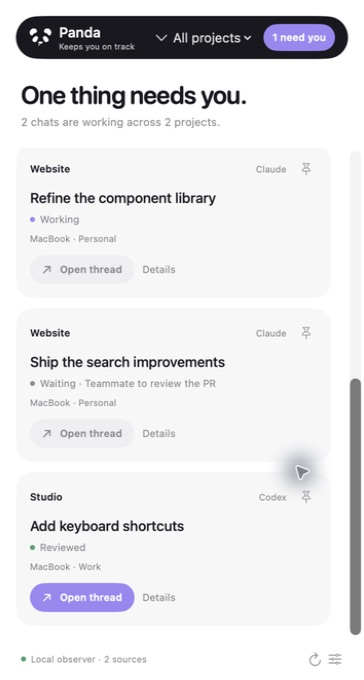
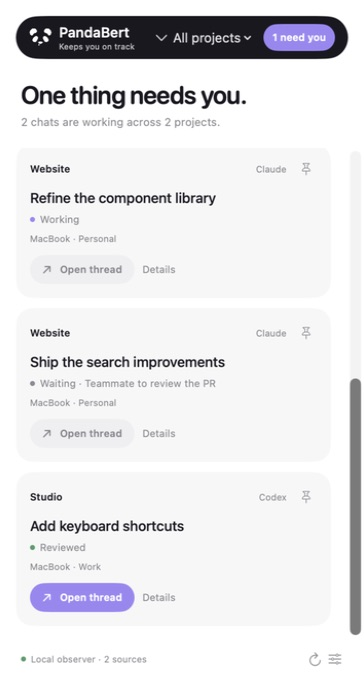
Rename app to PandaBert and remove fixed height limit

Changed region(s): [[0.7555, 0.6485, 0.8764, 0.7412], [0.272, 0.0309, 0.3626, 0.0618]]

diff --git a/Sources/Panda/PanelView.swift b/Sources/Panda/PanelView.swift
@@ -22,7 +22,7 @@ struct PanelView: View {
             HStack(spacing: 7) {
                 PandaMark()
                 VStack(alignment: .leading, spacing: 1) {
-                    Text("Panda").font(.system(size: 14, weight: .semibold))
+                    Text("PandaBert").font(.system(size: 14, weight: .semibold))
                     Text("Keeps you on track").font(.system(size: 8)).foregroundStyle(.white.opacity(0.72))
                 }.fixedSize(horizontal: true, vertical: false)
                 Spacer(minLength: 2)
@@ -59,7 +59,7 @@ struct PanelView: View {
                         VStack(alignment: .leading, spacing: 8) {
                             Image(systemName: "sparkle").foregroundStyle(lavender).font(.system(size: 22))
                             Text(store.sessions.isEmpty ? "Your activity will appear here." : "Nothing needs your attention here.").font(.system(size: 13, weight: .medium))
-                            Text(store.sessions.isEmpty ? "Add your profile folders in Connections. Panda observes Claude Code and Codex logs on this Mac." : "Keep this panel nearby. Pin any task you want to keep in sight.").font(.system(size: 11)).foregroundStyle(.secondary)
+                            Text(store.sessions.isEmpty ? "Add your profile folders in Connections. PandaBert observes Claude Code and Codex logs on this Mac." : "Keep this panel nearby. Pin any task you want to keep in sight.").font(.system(size: 11)).foregroundStyle(.secondary)
                         }.padding(18).frame(maxWidth: .infinity, alignment: .leading).background(neutralSurface, in: RoundedRectangle(cornerRadius: 17))
                     }
                     Button { expanded.toggle() } label: {
@@ -174,7 +174,7 @@ struct DetailView: View {
                     Button("Reveal transcript") { NSWorkspace.shared.activateFileViewerSelecting([URL(fileURLWithPath: s.sourcePath)]) }
                 }
             }
-            Text("Reply in the original Claude or Codex session. A finished turn is not a completed project; Panda does not invent a progress percentage.").font(.system(size: 10)).foregroundStyle(.secondary)
+            Text("Reply in the original Claude or Codex session. A finished turn is not a completed project; PandaBert does not invent a progress percentage.").font(.system(size: 10)).foregroundStyle(.secondary)
         }.padding(22).frame(width: 390).onAppear { waiting = store.preferences.waits[s.id] ?? ""; alias = store.preferences.projectName(s) }
     }
 }
@@ -200,12 +200,12 @@ struct SettingsView: View {
                         }
                     }
                     Toggle("Keep the panel above other windows", isOn: $store.preferences.alwaysOnTop).onChange(of: store.preferences.alwaysOnTop) { _ in store.save() }
-                    Toggle("Open Panda when I log in", isOn: Binding(get: { startsAtLogin }, set: { enabled in
+                    Toggle("Open PandaBert when I log in", isOn: Binding(get: { startsAtLogin }, set: { enabled in
                         do {
                             if enabled { try SMAppService.mainApp.register() } else { try SMAppService.mainApp.unregister() }
                             startsAtLogin = SMAppService.mainApp.status == .enabled
-                            settingsMessage = SMAppService.mainApp.status == .requiresApproval ? "Allow Panda in System Settings → Login Items." : ""
-                        } catch { settingsMessage = "Login setup unavailable. Move Panda to Applications and try again." }
+                            settingsMessage = SMAppService.mainApp.status == .requiresApproval ? "Allow PandaBert in System Settings → Login Items." : ""
+                        } catch { settingsMessage = "Login setup unavailable. Move PandaBert to Applications and try again." }
                     }))
                     Toggle("Show finished turns for review", isOn: $store.preferences.showFinished).onChange(of: store.preferences.showFinished) { _ in store.save() }
                     Toggle("Check linked pull requests using GitHub CLI", isOn: $store.preferences.githubEnabled).onChange(of: store.preferences.githubEnabled) { _ in store.save(); store.refresh(force: true) }
@@ -226,7 +226,7 @@ struct SettingsView: View {
                         if !store.preferences.profiles.contains(where: { $0.id == p.id }) { store.preferences.profiles.append(p) }
                         store.save(); profileLabel = ""; profileRoot = ""; store.refresh(force: true)
                     }.disabled(profileLabel.isEmpty || !(profileRoot.hasPrefix("/") || profileRoot.hasPrefix("~/")))
-                    Text("Choose the folder containing sessions (Codex) or projects (Claude). Profiles are labelled by you; Panda never guesses which account owns a folder.").font(.caption).foregroundStyle(.secondary)
+                    Text("Choose the folder containing sessions (Codex) or projects (Claude). Profiles are labelled by you; PandaBert never guesses which account owns a folder.").font(.caption).foregroundStyle(.secondary)
                     Divider()
                     Text("Other machines").font(.headline)
                     ForEach(store.preferences.remotes) { remote in
@@ -241,7 +241,7 @@ struct SettingsView: View {
                     Divider()
                     Text("Observed coverage").font(.headline)
                     Button("Export diagnostics (no task text)") {
-                        let panel = NSSavePanel(); panel.nameFieldStringValue = "panda-diagnostics.json"
+                        let panel = NSSavePanel(); panel.nameFieldStringValue = "pandabert-diagnostics.json"
                         guard panel.runModal() == .OK, let url = panel.url else { return }
                         let counts = Dictionary(grouping: store.sessions, by: { $0.displayActivity().rawValue }).mapValues(\.count)
                         let report: [String: Any] = ["version": pandaVersion, "generatedAt": ISO8601DateFormatter().string(from: Date()), "sessionCount": store.sessions.count, "projectCount": Set(store.sessions.map(\.projectKey)).count, "stateCounts": counts, "profileCount": store.preferences.profiles.count, "remoteCount": store.preferences.remotes.count, "availableSources": store.coverage.filter(\.available).count, "issueCount": store.issues.count]

diff --git a/Sources/Panda/main.swift b/Sources/Panda/main.swift
@@ -13,10 +13,10 @@ final class AppDelegate: NSObject, NSApplicationDelegate, NSWindowDelegate {
     func applicationDidFinishLaunching(_ notification: Notification) {
         store = PandaStore()
         panel = FloatingPanel(contentRect: NSRect(x: 0, y: 0, width: 364, height: 680), styleMask: [.borderless, .nonactivatingPanel, .resizable], backing: .buffered, defer: false)
-        panel.title = "Panda"; panel.isOpaque = false; panel.backgroundColor = .clear; panel.hasShadow = true
+        panel.title = "PandaBert"; panel.isOpaque = false; panel.backgroundColor = .clear; panel.hasShadow = true
         panel.isMovableByWindowBackground = true; panel.hidesOnDeactivate = false; panel.isReleasedWhenClosed = false
         panel.collectionBehavior = [.canJoinAllSpaces, .fullScreenAuxiliary]
-        panel.minSize = NSSize(width: 364, height: 420); panel.maxSize = NSSize(width: 460, height: 1000)
+        panel.minSize = NSSize(width: 364, height: 420); panel.maxSize = NSSize(width: 460, height: CGFloat.greatestFiniteMagnitude)
         panel.level = store.preferences.alwaysOnTop ? .floating : .normal
         panel.contentView = NSHostingView(rootView: PanelView(store: store).preferredColorScheme(.light))
         panel.delegate = self
@@ -27,9 +27,9 @@ final class AppDelegate: NSObject, NSApplicationDelegate, NSWindowDelegate {
         store.onTopChanged = { [weak self] on in self?.panel.level = on ? .floating : .normal }
         statusItem = NSStatusBar.system.statusItem(withLength: NSStatusItem.variableLength)
         statusItem.button?.image = PandaBrand.menuBarImage
-        let menu = NSMenu(); menu.addItem(withTitle: "Show Panda", action: #selector(showPanel), keyEquivalent: "")
+        let menu = NSMenu(); menu.addItem(withTitle: "Show PandaBert", action: #selector(showPanel), keyEquivalent: "")
         menu.addItem(withTitle: "Hide panel", action: #selector(hidePanel), keyEquivalent: "")
-        menu.addItem(.separator()); menu.addItem(withTitle: "Quit Panda", action: #selector(quit), keyEquivalent: "q")
+        menu.addItem(.separator()); menu.addItem(withTitle: "Quit PandaBert", action: #selector(quit), keyEquivalent: "q")
         for item in menu.items { item.target = self }; statusItem.menu = menu
         panel.orderFrontRegardless()
     }

diff --git a/Sources/PandaCore/Models.swift b/Sources/PandaCore/Models.swift
@@ -1,7 +1,7 @@
 import Foundation
 import CryptoKit
 
-public let pandaVersion = "0.2.4"
+public let pandaVersion = "0.3.0"
 public let pandaProtocolVersion = 1
 
 public enum Provider: String, Codable, CaseIterable { case claude, codex
@@ -214,9 +214,9 @@ public enum PreferencesFile {
             let absent = lstat(path.path, &info) == -1 && errno == ENOENT
             let failure = error as NSError
             if absent && failure.domain == NSCocoaErrorDomain && failure.code == NSFileReadNoSuchFileError { return nil }
-            throw PandaError.message("Saved preferences could not be read. Observation is stopped; repair the file and restart Panda.")
+            throw PandaError.message("Saved preferences could not be read. Observation is stopped; repair the file and restart PandaBert.")
         }
         do { return try JSONDecoder().decode(Preferences.self, from: data) }
-        catch { throw PandaError.message("Saved preferences are invalid. Observation is stopped; repair the file and restart Panda.") }
+        catch { throw PandaError.message("Saved preferences are invalid. Observation is stopped; repair the file and restart PandaBert.") }
     }
 }

diff --git a/Sources/PandaAgent/main.swift b/Sources/PandaAgent/main.swift
@@ -11,7 +11,7 @@ do {
         watch      Emit a JSON snapshot every five seconds until interrupted.
         Reads saved profile roots; defaults to ~/.claude and ~/.codex only when preferences are absent.
         Unreadable or invalid preferences stop collection with an error and no snapshot.
-        PANDA_HOME overrides Panda's own state folder (PULSE_HOME remains supported). No provider settings are changed.
+        PANDA_HOME overrides PandaBert's own state folder (PULSE_HOME remains supported). No provider settings are changed.
         """)
     } else if args == ["--version"] { print(pandaVersion) }
     else if args == ["snapshot"] || args == ["watch"] {

diff --git a/Sources/Panda/PandaBrand.swift b/Sources/Panda/PandaBrand.swift
@@ -10,7 +10,7 @@ enum PandaBrand {
         let resources = packaged.flatMap { Bundle(url: $0) } ?? Bundle.module
         let image = NSImage(contentsOf: resources.url(forResource: "PandaMark", withExtension: "png")!)!
         image.isTemplate = true
-        image.accessibilityDescription = "Panda"
+        image.accessibilityDescription = "PandaBert"
         return image
     }()
     static var menuBarImage: NSImage {

diff --git a/README.md b/README.md
@@ -1,26 +1,26 @@
-<p align="center"><img src="docs/brand/panda-app-icon.png" alt="Panda logo" width="96"></p>
+<p align="center"><img src="docs/brand/panda-app-icon.png" alt="PandaBert logo" width="96"></p>
 
-# Panda
+# PandaBert
 
 **Keeps you on track**
 
-Panda is a small native macOS panel for people working across Claude Code and Codex conversations. It gathers observed activity into one place, groups tasks by repository, and brings questions and finished turns to your attention. Keep it beside your work, pin what matters, and jump back into a supported conversation when it is time to respond.
+PandaBert is a small native macOS panel for people working across Claude Code and Codex conversations. It gathers observed activity into one place, groups tasks by repository, and brings questions and finished turns to your attention. Keep it beside your work, pin what matters, and jump back into a supported conversation when it is time to respond.
 
-Previously called Pulse. Existing settings and pins carry over.
+Previously called Panda and Pulse. Existing settings and pins carry over.
 
-**Current version: 0.2.4 · Public preview · Apple Silicon · macOS 13+**
+**Current version: 0.3.0 · Public preview · Apple Silicon · macOS 13+**
 
 <p align="center">
-  <img src="docs/screenshots/attention.jpg" alt="Panda attention panel with a pinned working task and a task that needs an answer" width="364">
+  <img src="docs/screenshots/attention.jpg" alt="PandaBert attention panel with a pinned working task and a task that needs an answer" width="364">
 </p>
 
 *Real app interface with fictional sample tasks. Screenshots illustrate the UI; they are not evidence of live account or remote-machine connections.*
 
-## Why Panda exists
+## Why PandaBert exists
 
 When several agents are working at once, checking on them becomes a task of its own. One chat is still running. Another has a question. A third has finished and needs review. A fourth is waiting for someone else to approve a pull request. Those conversations may be spread across projects, profiles and computers.
 
-Panda gives that scattered work a small, persistent home. Its purpose is to reduce repeated checking and make the next thing that needs your attention visible. Routine status comes from observed session activity, so there is no separate task board to keep up to date. Pins and waiting notes add your own priorities when needed.
+PandaBert gives that scattered work a small, persistent home. Its purpose is to reduce repeated checking and make the next thing that needs your attention visible. Routine status comes from observed session activity, so there is no separate task board to keep up to date. Pins and waiting notes add your own priorities when needed.
 
 ## What you can do
 
@@ -31,7 +31,7 @@ Panda gives that scattered work a small, persistent home. Its purpose is to redu
 - **Group by project.** Repository identities bring related conversations together. Filter by project and give it a friendlier display name.
 - **Return to the conversation.** Open supported local Codex tasks and mapped Claude desktop sessions. Unavailable Claude links are disabled.
 - **Understand a wait.** Read the latest excerpt, add a person or dependency note, and optionally check linked GitHub pull requests using your existing CLI login.
-- **Keep the panel nearby.** Move or resize it, keep it above other windows, and reopen it from the macOS menu bar.
+- **Keep the panel nearby.** Move or resize it vertically to fit your screen, keep it above other windows, and reopen it from the macOS menu bar. PandaBert has no fixed maximum height and remembers your window size.
 
 ### A quiet visual language
 
@@ -60,33 +60,33 @@ Labels accompany the dots. Cards stay neutral, and lavender controls use white t
 ### The newest notification
 
 <p align="center">
-  <img src="docs/screenshots/notification-glow.jpg" alt="Panda showing a soft lavender halo around the newest task needing attention, with a faint outline and neutral card surface" width="364">
+  <img src="docs/screenshots/notification-glow.jpg" alt="PandaBert showing a soft lavender halo around the newest task needing attention, with a faint outline and neutral card surface" width="364">
 </p>
 
-The newest attention item glows softly for 30 seconds, with an eight-second breathing cycle and a gentle fade. This still image captures the glow in Panda 0.2.4; the pin above it keeps its usual subtle outline.
+The newest attention item glows softly for 30 seconds, with an eight-second breathing cycle and a gentle fade. This still image captures the glow in PandaBert 0.3.0; the pin above it keeps its usual subtle outline.
 
 All screenshots use sample data. [Screenshot notes](docs/screenshots/README.md).
 
 ## How it works
 
-Panda reads accessible Claude Code and Codex session logs and converts recent events into task status. Repository information provides project grouping. Preferences, pins and a small cache stay in Panda's own local data folder.
+PandaBert reads accessible Claude Code and Codex session logs and converts recent events into task status. Repository information provides project grouping. Preferences, pins and a small cache stay in PandaBert's own local data folder.
 
-Additional profile folders can be labelled in Connections. A collector can also return snapshots from another Mac over an existing trusted SSH connection. Accounts remain signed in on their original machines; Panda does not require their passwords.
+Additional profile folders can be labelled in Connections. A collector can also return snapshots from another Mac over an existing trusted SSH connection. Accounts remain signed in on their original machines; PandaBert does not require their passwords.
 
-**This preview is an activity observer.** It does not start, stop or approve agent work. A finished turn is not a completed project, and Panda does not calculate a project completion percentage. If recent activity stops providing reliable evidence, it shows uncertainty.
+**This preview is an activity observer.** It does not start, stop or approve agent work. A finished turn is not a completed project, and PandaBert does not calculate a project completion percentage. If recent activity stops providing reliable evidence, it shows uncertainty.
 
 ## Get started
 
 You need an Apple Silicon Mac running macOS 13 or later, and the full Xcode toolchain.
 
 ```sh
-git clone https://github.com/pippo-wtf/panda.git
-cd panda
+git clone https://github.com/pippo-wtf/pandabert.git
+cd pandabert
 bash scripts/package.sh
-open dist/Panda.app
+open dist/PandaBert.app
 ```
 
-Panda begins with the default local Claude Code and Codex profile folders. Use the sliders icon at the bottom right to add other profile folders or configure a trusted remote Mac.
+PandaBert begins with the default local Claude Code and Codex profile folders. Use the sliders icon at the bottom right to add other profile folders or configure a trusted remote Mac.
 
 The app is locally ad-hoc signed; this preview has no notarized installer or automatic updater. Build time depends on your machine.
 
@@ -108,13 +108,13 @@ Some important boundaries:
 
 ## Your data
 
-Provider folders are read only. Panda does not change Claude/Codex credentials, hooks or settings. Preferences and the pinned-task cache live in `~/Library/Application Support/Pulse`.
+Provider folders are read only. PandaBert does not change Claude/Codex credentials, hooks or settings. Preferences and the pinned-task cache live in `~/Library/Application Support/Pulse`.
 
 When you configure a remote Mac, its task metadata and recent excerpts travel to the panel Mac over SSH. Optional GitHub checks use the existing `gh` login and linked PR API requests; chat excerpts are not sent to GitHub or NotebookLM. The diagnostic export contains aggregate counts rather than task text.
 
-## Help improve Panda
+## Help improve PandaBert
 
-Found a status that looks wrong or a link that will not open? [Open an issue](https://github.com/pippo-wtf/panda/issues/new/choose) with what you expected, what happened, and the relevant app versions. Remove private chat text and account details from anything you attach.
+Found a status that looks wrong or a link that will not open? [Open an issue](https://github.com/pippo-wtf/pandabert/issues/new/choose) with what you expected, what happened, and the relevant app versions. Remove private chat text and account details from anything you attach.
 
 [Contributing and development guide](CONTRIBUTING.md) · [Navigation behavior](NAVIGATION.md) · [Validation history](VALIDATION.md)
 

diff --git a/NAVIGATION.md b/NAVIGATION.md
@@ -1,4 +1,4 @@
-# Open thread — Panda
+# Open thread — PandaBert
 
 Every task card and the details sheet now have an **Open thread** button. Task details remain available separately. Navigation does not mark work reviewed or submit a prompt.
 
@@ -8,19 +8,19 @@ Verified against the installed macOS applications on 2026-09-10:
 
 - Codex bundle `com.openai.codex`, version `26.903.71938`, installed as `ChatGPT.app`: the registered `codex` URL handler accepts `codex://threads/<thread-id>` as a local-conversation navigation route.
 - Claude bundle `com.anthropic.claudefordesktop`, version `1.49585.0`: the registered `claude` handler accepts existing conversation paths under `claude://claude.ai/epitaxy/<desktop-session-id>` and server conversation paths under `claude://claude.ai/code/<server-session-id>`.
-- Claude's session store normalizes `cse_` bridge IDs to the server's `session_` form. The app's newer `claude://code/...` host was observed to be feature-gated off in the installed build, so Panda uses the existing `claude.ai` conversation handler.
+- Claude's session store normalizes `cse_` bridge IDs to the server's `session_` form. The app's newer `claude://code/...` host was observed to be feature-gated off in the installed build, so PandaBert uses the existing `claude.ai` conversation handler.
 
-These were checked in the installed apps' Info.plist and packaged navigation/session-store code. No app files or provider settings were changed. No third-party app code is included in Panda.
+These were checked in the installed apps' Info.plist and packaged navigation/session-store code. No app files or provider settings were changed. No third-party app code is included in PandaBert.
 
 ## Identity and limits
 
-Codex uses the recorded native UUID. Claude requires an explicit local mapping read from its session metadata, using the CLI session ID rather than guessing that it equals the desktop ID. Panda checks the standard Claude session folder and up to 64 Parall profile folders, including independently stored second-account metadata. It recognizes recorded current, pre-clear, unarchived and prior CLI IDs. UUID-named Claude transcripts use their filename identity, so copied parent history cannot merge a fork with its parent or supply its bridge link. The mapping is loaded again on click so a cached or pinned task cannot open a removed mapping. Ambiguous mappings are discarded. Bridge IDs alone never enable navigation: a syntactically valid bridge ID does not prove that its conversation exists in the desktop app. Remote Claude navigation is disabled as well.
+Codex uses the recorded native UUID. Claude requires an explicit local mapping read from its session metadata, using the CLI session ID rather than guessing that it equals the desktop ID. PandaBert checks the standard Claude session folder and up to 64 Parall profile folders, including independently stored second-account metadata. It recognizes recorded current, pre-clear, unarchived and prior CLI IDs. UUID-named Claude transcripts use their filename identity, so copied parent history cannot merge a fork with its parent or supply its bridge link. The mapping is loaded again on click so a cached or pinned task cannot open a removed mapping. Ambiguous mappings are discarded. Bridge IDs alone never enable navigation: a syntactically valid bridge ID does not prove that its conversation exists in the desktop app. Remote Claude navigation is disabled as well.
 
 Only validated identifiers enter the fixed URL templates. No prompt, command, filesystem path or arbitrary query string is forwarded. The matching app bundle is selected explicitly; missing-app errors are surfaced. Sessions lacking a desktop connection have a disabled button and an explanation in Details.
 
-The destination app must be signed in to an account with access to the thread. Panda cannot verify that access through the operating system's URL-opening acknowledgement. A local metadata record establishes identity, not current account authorization; the destination app still owns that access check. Remote Codex routing is unavailable until Panda machine identities are mapped to Codex's own connected hosts. Unlinked Claude terminal sessions are not imported or resumed automatically.
+The destination app must be signed in to an account with access to the thread. PandaBert cannot verify that access through the operating system's URL-opening acknowledgement. A local metadata record establishes identity, not current account authorization; the destination app still owns that access check. Remote Codex routing is unavailable until PandaBert machine identities are mapped to Codex's own connected hosts. Unlinked Claude terminal sessions are not imported or resumed automatically.
 
-Optional identity fields preserve decoding of existing Panda snapshots and pinned-task caches. The collector protocol version remains 1; old consumers ignore these additional JSON fields.
+Optional identity fields preserve decoding of existing PandaBert snapshots and pinned-task caches. The collector protocol version remains 1; old consumers ignore these additional JSON fields.
 
 ## Validation
 

diff --git a/docs/GETTING_STARTED.md b/docs/GETTING_STARTED.md
@@ -1,4 +1,4 @@
-# Getting started with Panda
+# Getting started with PandaBert
 
 ## Build and run
 
@@ -6,26 +6,26 @@ Requires Apple Silicon macOS 13 or later. Build on this machine with the full Xc
 
 ```sh
 bash scripts/package.sh
-open dist/Panda.app
+open dist/PandaBert.app
 ```
 
-The app is locally ad-hoc signed, not notarized for public distribution. Quit it from the Panda menu-bar menu. Drag the panel background to move it; resize from an edge. Settings are behind the bottom-right sliders icon.
+The app is locally ad-hoc signed, not notarized for public distribution. Quit it from the PandaBert menu-bar menu. Drag the panel background to move it; resize from an edge. Settings are behind the bottom-right sliders icon.
 
-All Panda preferences and its small pinned-task cache live in `~/Library/Application Support/Pulse`. `PANDA_HOME` overrides this for isolated tests; the legacy `PULSE_HOME` variable also works. The existing `Pulse` data folder and app bundle identifier are retained for upgrade compatibility. Provider folders are only read; no Claude/Codex credentials, hooks or settings are modified. The app does not start, stop or approve any agent.
+All PandaBert preferences and its small pinned-task cache live in `~/Library/Application Support/Pulse`. `PANDA_HOME` overrides this for isolated tests; the legacy `PULSE_HOME` variable also works. The existing `Pulse` data folder and app bundle identifier are retained for upgrade compatibility. Provider folders are only read; no Claude/Codex credentials, hooks or settings are modified. The app does not start, stop or approve any agent.
 
 ## Connect another Mac
 
-Use an already established SSH alias with key authentication and a verified known-host entry. Panda does not enroll hosts, change SSH configuration, accept new host keys or ask for passwords. On the other Mac, build this package or transfer the matching Apple Silicon collector, then install the binary at `~/.local/bin/panda-agent`. For example, on that Mac from a built package:
+Use an already established SSH alias with key authentication and a verified known-host entry. PandaBert does not enroll hosts, change SSH configuration, accept new host keys or ask for passwords. On the other Mac, build this package or transfer the matching Apple Silicon collector, then install the binary at `~/.local/bin/panda-agent`. For example, on that Mac from a built package:
 
 ```sh
 mkdir -p ~/.local/bin
-cp dist/Panda.app/Contents/Resources/panda-agent ~/.local/bin/panda-agent
+cp dist/PandaBert.app/Contents/Resources/panda-agent ~/.local/bin/panda-agent
 ~/.local/bin/panda-agent snapshot
 ```
 
-Panda prefers `panda-agent` on remote Macs and falls back to an existing `pulse-agent` installation. The snapshot protocol remains compatible.
+PandaBert prefers `panda-agent` on remote Macs and falls back to an existing `pulse-agent` installation. The snapshot protocol remains compatible.
 
-In Panda Connections, enter a label and the existing SSH alias. Each machine keeps its Claude/Codex logins; Panda receives normalized task metadata and recent excerpts over encrypted SSH. A machine with two separately stored profiles can expose both by configuring its Panda preferences locally. Account switching inside the same provider home is not account attribution: give separate roots distinct labels.
+In PandaBert Connections, enter a label and the existing SSH alias. Each machine keeps its Claude/Codex logins; PandaBert receives normalized task metadata and recent excerpts over encrypted SSH. A machine with two separately stored profiles can expose both by configuring its PandaBert preferences locally. Account switching inside the same provider home is not account attribution: give separate roots distinct labels.
 
 Remote reading uses fixed arguments, BatchMode, StrictHostKeyChecking and a bounded response. The snapshot carries a protocol version, timestamp and stable machine/session identity; stale or mismatched responses are rejected. Failed remote refreshes retain last-known tasks with an unavailable state. This is implemented but still requires a real second-machine acceptance run.
 

diff --git a/docs/COVERAGE.md b/docs/COVERAGE.md
@@ -1,6 +1,6 @@
 # Coverage and limitations
 
-Panda 0.2.4 is a local preview. These limits describe the implementation, not a promise of future delivery.
+PandaBert 0.3.0 is a local preview. These limits describe the implementation, not a promise of future delivery.
 
 ## Collection behavior
 
@@ -13,7 +13,7 @@ Panda 0.2.4 is a local preview. These limits describe the implementation, not a 
 - Passive logs do not reliably expose all permission prompts, pending queue events or async questions. Permission-hook parsing is reserved for a later explicitly wired adapter; no hook is installed in this build.
 - Log writes may be delayed. This is observed log activity, not authoritative process liveness. A finished turn does not mean a project is complete.
 - The collector scans the last 14 days, at most 250 recent log files per profile, skips subagent folders and reports partial coverage. Large files retain initial metadata plus the recent 2 MiB; an individual oversized or incomplete line may be skipped. When a span is skipped, lifecycle state from before that gap is discarded. A retained completion can establish the new state; otherwise the task may show Status uncertain until sufficient new evidence appears. There is no full-history transcript database.
-- **Open thread** on every card and in Details jumps to the existing Codex or linked Claude conversation. Codex uses its local thread ID; Claude requires an explicit local desktop-session mapping from the standard Claude folder or a Parall profile folder, which is checked again when clicked. Bridge IDs alone do not enable navigation. The destination app must be signed in to an account that can access that conversation. Sessions without a local desktop link and remote sessions remain explicitly unavailable; Panda does not create/import a replacement conversation. Session IDs can still be copied and local transcripts revealed.
+- **Open thread** on every card and in Details jumps to the existing Codex or linked Claude conversation. Codex uses its local thread ID; Claude requires an explicit local desktop-session mapping from the standard Claude folder or a Parall profile folder, which is checked again when clicked. Bridge IDs alone do not enable navigation. The destination app must be signed in to an account that can access that conversation. Sessions without a local desktop link and remote sessions remain explicitly unavailable; PandaBert does not create/import a replacement conversation. Session IDs can still be copied and local transcripts revealed.
 - GitHub Enterprise, full PR discovery, milestones/progress aggregation, natural-language dependency extraction, lifecycle hooks and automatic account/machine discovery are not in this preview.
 - A provider profile is a folder label, not a verified billing-account identity. No universal four-account cloud login has been implemented.
 - GitHub is off by default. With it enabled, GitHub receives linked PR URLs and the usual CLI API requests; chat excerpts are never sent to GitHub or NotebookLM. Remote observation intentionally transfers excerpts to the panel Mac.

diff --git a/VALIDATION.md b/VALIDATION.md
@@ -132,3 +132,13 @@ Validation:
 - All 42 tests passed after the resource integration. Release compilation, icon conversion and local signature verification passed. macOS icon conversion required running outside the restricted sandbox; the same valid icon set converted successfully there.
 - The native sample panel was inspected at its existing 364-point width: the new mark fits alongside the full Panda name and subline. Screenshot tasks are fictional. Observation, navigation, pin and glow logic are unchanged in this release.
 - Standalone resource check: temporarily removed the SwiftPM build-resource fallback, launched the packaged app and visually confirmed the logo rendered from its bundled resources. Restored the build resource afterward.
+
+
+## PandaBert and flexible height — 0.3.0
+
+- Renamed the app bundle, process/display name, header, menu actions, settings copy, diagnostics filename and current repository documentation to PandaBert. Kept “Keeps you on track” and the approved panda logo. Refreshed all four documentation screenshots with fictional tasks.
+- Removed the fixed 1,000-point window-height cap. The 364–460-point width range and 420-point minimum height remain; macOS still applies its normal screen constraints. Existing window-frame autosave remains enabled.
+- Preserved the app bundle identifier, data folder, collector command, environment overrides and internal Swift module/resource names. Existing settings, pins and machine identity carry over. The local legacy Panda.app shortcut now resolves to PandaBert.app; the older app bundle was retained in ignored build output.
+- All 42 tests passed. Release packaging and local signature verification passed. The real PandaBert app launched, and native sample inspection confirmed the full name and subline fit the existing compact header.
+- The UI automation adapter returned AXError.notImplemented for a window-edge drag. The height-cap removal is verified in the built source; an interactive drag beyond the old limit was not verified in this environment.
+- GitHub repository renamed to pippo-wtf/pandabert and confirmed public. Source repository visibility and user data scope did not change.

diff --git a/docs/screenshots/README.md b/docs/screenshots/README.md
@@ -1,13 +1,13 @@
 # Screenshots
 
-These images show the native Panda interface with fictional sample tasks, projects and profile labels. They are UI illustrations, not evidence of live account connections, running agents or GitHub synchronization.
+These images show the native PandaBert interface with fictional sample tasks, projects and profile labels. They are UI illustrations, not evidence of live account connections, running agents or GitHub synchronization.
 
-- `attention.jpg` (0.2.4): a pinned active task and a question needing attention.
-- `background.jpg` (0.2.4): the background list with active, waiting and reviewed tasks.
-- `task-details.jpg` (0.2.4): a sample question, its context and task controls.
+- `attention.jpg` (0.3.0): a pinned active task and a question needing attention.
+- `background.jpg` (0.3.0): the background list with active, waiting and reviewed tasks.
+- `task-details.jpg` (0.3.0): a sample question, its context and task controls.
 
-- `notification-glow.jpg` (0.2.4): the newest attention item with the softer outline and stronger lavender halo. This is a still frame of the 30-second animation.
+- `notification-glow.jpg` (0.3.0): the newest attention item with the softer outline and stronger lavender halo. This is a still frame of the 30-second animation.
 
-Captured on macOS from an isolated copy of the app using the production panel views. The screenshot copy replaces live collection with an in-memory fixture and uses a separate data directory. No production UI styling was changed for these captures. The user's running Panda instance and its settings were preserved.
+Captured on macOS from an isolated copy of the app using the production panel views. The screenshot copy replaces live collection with an in-memory fixture and uses a separate data directory. No production UI styling was changed for these captures. The user's running PandaBert instance and its settings were preserved.
 
 If you replace these images, use sample data again, inspect every visible field, and update the captions to match the captured version. Keep original screenshot pixels; do not synthesize a product screen that claims features the app does not have.

diff --git a/CONTRIBUTING.md b/CONTRIBUTING.md
@@ -1,10 +1,10 @@
-# Contributing to Panda
+# Contributing to PandaBert
 
-Panda is a public preview. Small, focused changes are easiest to review.
+PandaBert is a public preview. Small, focused changes are easiest to review.
 
 ## Report a problem
 
-Use the bug-report template and include the Panda version, macOS version, provider app version, desktop or terminal mode, and whether the task is local or remote. Describe what you expected and what Panda actually showed. Include reproduction steps if possible.
+Use the bug-report template and include the PandaBert version, macOS version, provider app version, desktop or terminal mode, and whether the task is local or remote. Describe what you expected and what PandaBert actually showed. Include reproduction steps if possible.
 
 A diagnostic export is available in **Connections → Export diagnostics**. It contains aggregate counts, not task text. Review attachments before sharing: screenshots and raw transcripts can contain private project names, prompts or account information. Do not attach credentials or full provider logs.
 
@@ -35,4 +35,4 @@ A diagnostic export is available in **Connections → Export diagnostics**. It c
 - Use isolated `PANDA_HOME` folders and sample data for tests. Do not change an operator's running agents or personal preferences.
 - Keep private activity snapshots, build output and real task data out of commits.
 
-[Back to Panda](README.md)
+[Back to PandaBert](README.md)
